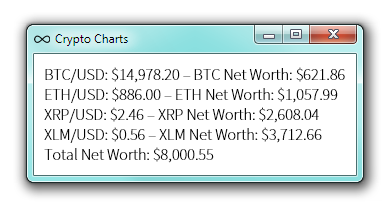
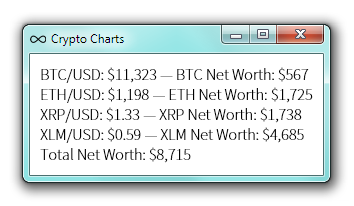
Apply currency formatting changes

diff --git a/index.html b/index.html
@@ -17,14 +17,16 @@
 			<img id="preview" src="preview.png" onanimationstart="hideLoading(event)">
 			<p id="loading">Loading...</p>
 			<p id="tutorial" onanimationend="showLoading()">
-				Create a file <tt>setup.json</tt> in the same directory.<br>
+				Create a file <tt>setup.json</tt> in the same directory.
+				<br>
 				Put an array of the currencies you own, and configure <tt>id</tt> fields according to <a href="https://coinmarketcap.com/api/" target="_blank">CoinMarketCap API</a>.
+				<br>
+				Set your local currency by picking the <a href="http://www.oracle.com/technetwork/java/javase/java8locales-2095355.html" target="_blank">language tag of your country</a>.
 			</p>
 <pre id="configSample" onanimationend="hideLoading()"><code class="json">{
   "localCurrency": {
     "id": "USD",
-    "symbol": "$",
-    "symbolPosition": "BEFORE"
+    "languageTag": "en-US"
   },
   "currenciesOwned": [
     {
